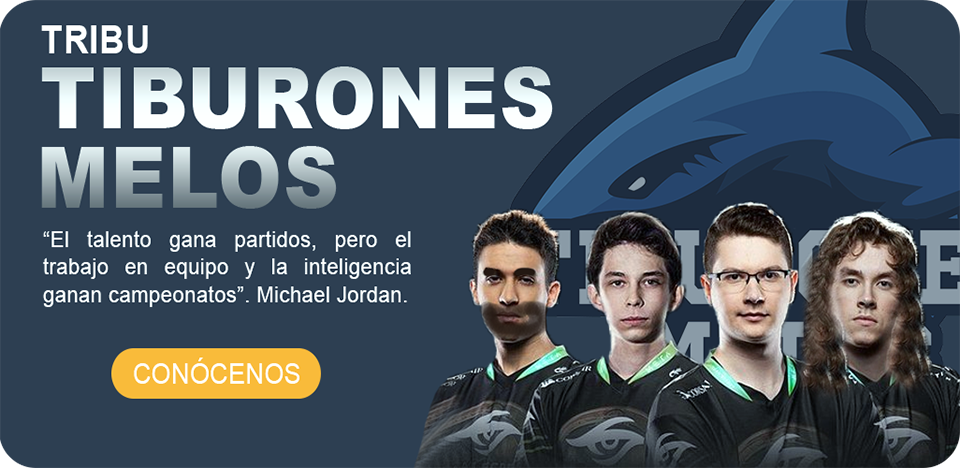
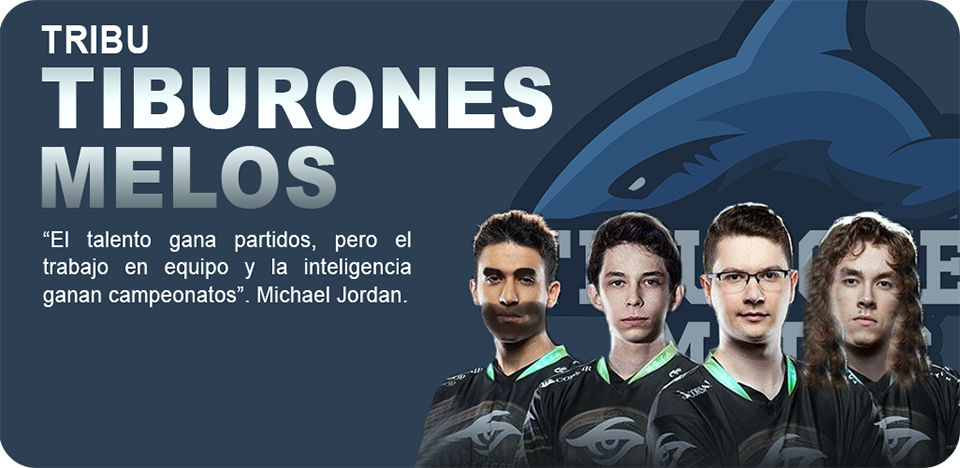
Ultimo cambios pagina principal

Changed region(s): [[0.0938, 0.7179, 0.3438, 0.8675]]

diff --git a/SitioWebV2/index.html b/SitioWebV2/index.html
@@ -21,9 +21,24 @@
            </nav>
             <!--Contenido-->
           <section id = "banner">
-            <img src="img/img_banner.png">
+            <div id="cuadro">
+          	<input id="boton"type="button" value="CONÓCENOS">
+          	</div>
           </section>
           <section id= "contactanos">
+            <!--contactanos-->
+              <div id=infoContacto>
+                <h1>
+                    Envianos tu sugerencia
+                </h1>
+                <p>
+                  Nuestro equipo da la bienvenida
+                  a  la sugerencias de la personas sobre
+                  como mejorar nuestra tribu
+                </p>
+                <img src = "img/iconos_contacto.png">
+              </div>
+
               <!--Formulario-->
               <div id="formulario">
                 <form autocomplete="off">
@@ -33,23 +48,23 @@
 
                   <label class="form-label">Nombre</label>
                   <input type="text" id="nombre" class="form-input" placeholder="Escriba su nombre">
-                  
+
                   <label class="form-label">Correo</label>
                   <input type="text" id="correo" class="form-input" placeholder="Escriba su correo">
-                  
+
                   <label class="form-label">Género</label>
                   <select id="genero" class="form-input">
                     <option value="m">Masculino</option>
                     <option value="f">Femenino</option>
                     <option value="i">Indefinido</option>
                   </select>
-                  
+
                   <label class="form-label">Ciudad</label>
                   <input type="text" id="ciudad" class="form-input" placeholder="Escriba su ciudad">
-                  
+
                   <label class="form-label">País</label>
                   <input type="text" id="pais" class="form-input" placeholder="Escriba su país">
-                  
+
                   <label class="form-label">Sugerencia</label>
                   <textarea id="sugerencia" class="form-textarea" placeholder="Aqui escriba su sugerencia"></textarea>
 
@@ -60,7 +75,7 @@
             <!--Pie de pagina-->
           <footer id="piedepagina">
               <h2>
-                3128620761
+                
               </h2>
           </footer>
       </div>

diff --git a/SitioWebV2/css/styles.css b/SitioWebV2/css/styles.css
@@ -31,9 +31,31 @@ body{
   height:200px;
 }
 
-#banner img{
+#banner {
+  width: 960px;
+  height: 468px;
   margin: auto;
   display:block;
+  background-image: url("../img/img_banner.png");
+ }
+ #boton{
+     width: 250px;
+     height: 50px;
+     background: #f9b233;
+     color: white;
+     border: none;
+     outline: none;
+     font-size: 28px;
+     border-radius: 10px;
+     cursor: pointer;
+     line-height: 50px;
+     position: relative;
+     top: 350px;
+     left: 100px;
+ }
+ #boton:hover{
+   background-color: #FACC7A;
+
  }
  /*Menu*/
 nav{
@@ -80,6 +102,39 @@ nav li b:hover{
   color: #f9b233;
 }
 
+#infoContacto{
+  margin-top:32px;
+  float: left;
+  width: 500px;
+  font-family: Arial;
+  color: white;
+}
+#infoContacto h1{
+  width: 375px;
+  margin: auto;
+  display: block;
+  font-weight: normal;
+  border-bottom: 4px solid #f9b233;
+  font-size:35px;
+  text-align: center;
+
+}
+#infoContacto p{
+  padding-top: 10px;
+  margin-top: 20px;
+  font-size: 30px;
+  font-style:italic;
+  margin-bottom: 20px;
+  text-align: center;
+
+}
+#infoContacto img{
+  margin:auto;
+  width: 50%;
+  margin: auto;
+  display: block;
+
+}
 
 /*Formulario*/
 #formulario{
@@ -110,7 +165,7 @@ form{
   margin: auto;;
   padding: 5px 20px;
   margin-top: 20px;
-  padding-bottom: 20px; 
+  padding-bottom: 20px;
 }
 
 form .form-label{
